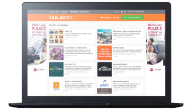
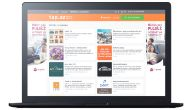
Imagenes reducidas

diff --git a/css/style.css b/css/style.css
@@ -794,7 +794,7 @@ button {
 @media only screen and (min-width: 767px) {
   .header {
     height: 550px;
-    background-image: url(/assets/img/background.png);
+    background-image: url(../assets/img/bg-header.png);
     background-size: contain;
   }
 
